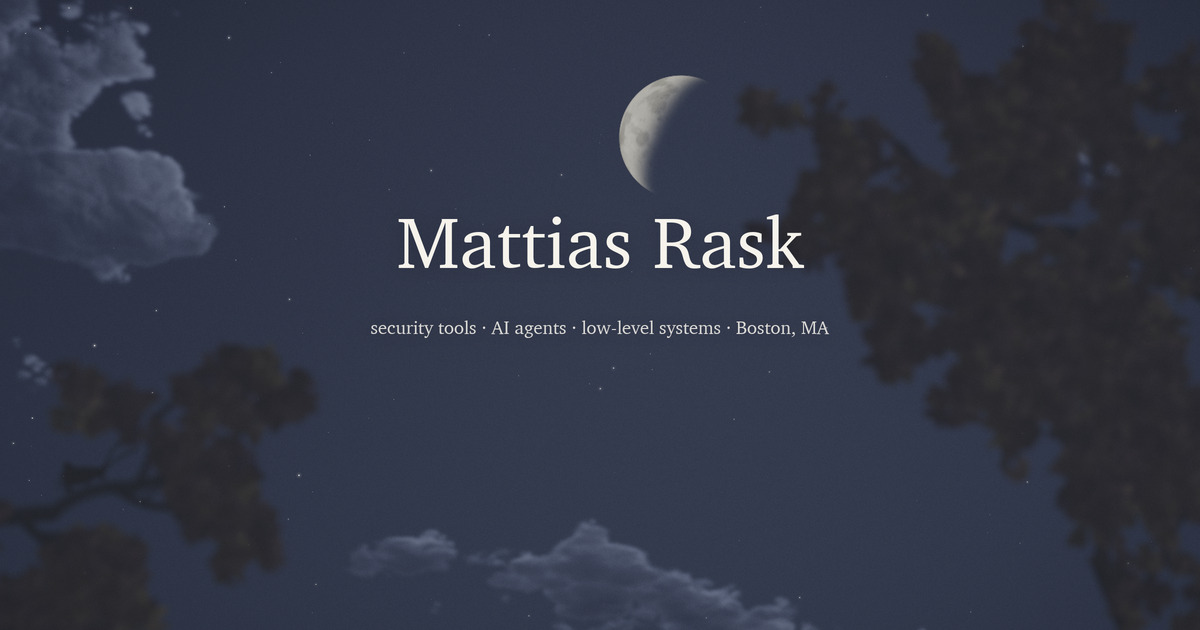
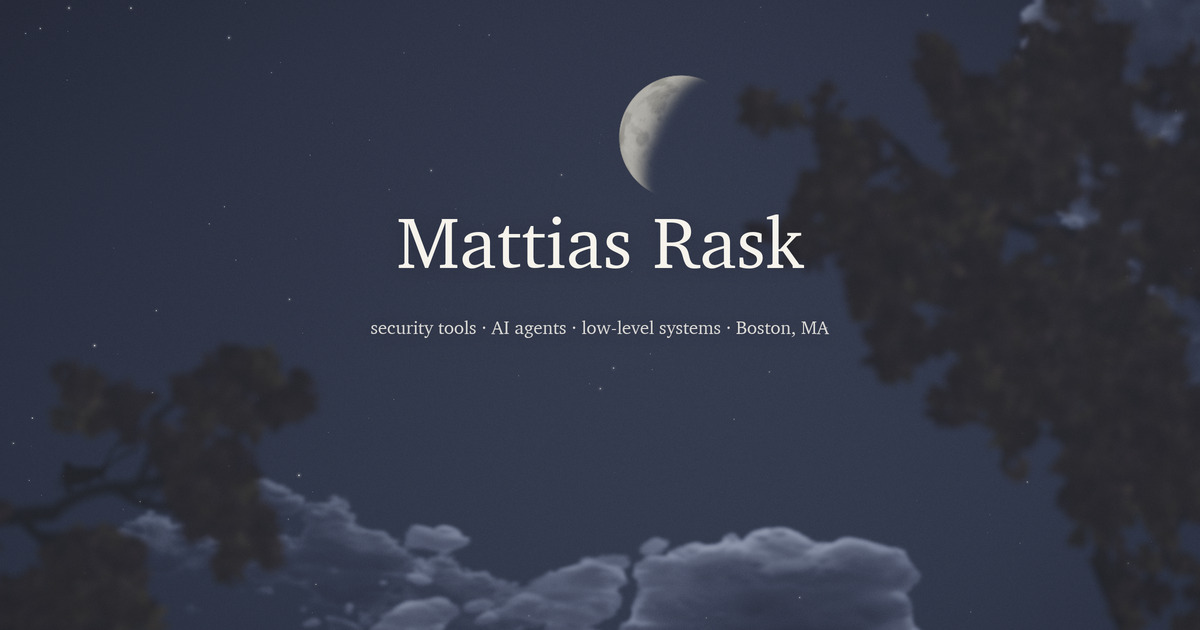
clouds drift whole, start in the open sky, night card

diff --git a/sky.js b/sky.js
@@ -16,7 +16,7 @@
    the tips, and the left limb keeps a bare stretch of wood for the
    cricket. The wind is a noise signal with
    real lulls and gusts: it runs through the crown, carries the clouds
-   slowly leftward, and when it rises leaves let go of the clusters and
+   slowly leftward in one piece, and when it rises leaves let go of the clusters and
    blow down through the picture, some flipping end over end the whole
    way; by day a jet crosses the high sky now and then and its contrail
    widens and dissolves behind it. At night the wind drops: the clouds
@@ -232,25 +232,40 @@ float turb3(vec2 p) {
   return v;
 }
 
+/* the field translates as one piece, so a cloud keeps its shape as it
+   crosses the frame; the lobes and the grain slip behind the body by a
+   few percent, so a cloud still turns over, slowly, the way they do */
+float bodyAt(vec2 q, vec2 drift, float seed) {
+  return fbm5((q + drift) * 1.35 + seed);
+}
+
+float bigAt(vec2 q, vec2 drift, float seed) {
+  return turb3((q + drift * 0.96) * 3.8 + 9.0 + seed);
+}
+
+float midAt(vec2 q, vec2 drift, float seed) {
+  return turb3((q + drift * 0.96) * 7.5 + 17.0 + seed);
+}
+
 float fineAt(vec2 q, vec2 drift, float seed) {
-  return turb3(q * 20.0 + drift * 0.5 + 27.0 + seed);
+  return turb3((q + drift * 0.92) * 20.0 + 27.0 + seed);
 }
 
 float puff(vec2 p, vec2 drift, float seed, out float body, out float lobes, out float fine) {
-  body = fbm5(p * 1.35 + drift + seed);
-  float big = turb3(p * 3.8 + drift * 0.8 + 9.0 + seed);
-  float mid = turb3(p * 7.5 + drift * 0.65 + 17.0 + seed);
+  body = bodyAt(p, drift, seed);
+  float big = bigAt(p, drift, seed);
+  float mid = midAt(p, drift, seed);
   fine = fineAt(p, drift, seed);
   lobes = 0.6 * big + 0.4 * mid;
   return body + 0.24 * (big - 0.42) + 0.11 * (mid - 0.42) + 0.09 * (fine - 0.42);
 }
 
 float lobeAt(vec2 q, vec2 drift, float seed) {
-  return 0.6 * turb3(q * 3.8 + drift * 0.8 + 9.0 + seed) + 0.4 * turb3(q * 7.5 + drift * 0.65 + 17.0 + seed);
+  return 0.6 * bigAt(q, drift, seed) + 0.4 * midAt(q, drift, seed);
 }
 
 float mass(vec2 q, vec2 drift, float seed) {
-  return fbm5(q * 1.35 + drift + seed) + 0.24 * (turb3(q * 3.8 + drift * 0.8 + 9.0 + seed) - 0.42) - 0.032;
+  return bodyAt(q, drift, seed) + 0.24 * (bigAt(q, drift, seed) - 0.42) - 0.032;
 }
 
 float boxDist(vec2 p, vec4 r, vec2 s) {
@@ -265,7 +280,7 @@ vec4 deck(vec2 p0, vec2 sunP, vec2 drift, float sc, float seed, float th0, float
   float k = sc * FINE;
   p0 *= k;
   sunP *= k;
-  vec2 warp = (vec2(fbm3(p0 * 1.2 + drift + 3.0 + seed), fbm3(p0 * 1.2 + drift + 17.0 + seed)) - 0.5) * 0.10;
+  vec2 warp = (vec2(fbm3((p0 + drift) * 1.2 + 3.0 + seed), fbm3((p0 + drift) * 1.2 + 17.0 + seed)) - 0.5) * 0.10;
   vec2 p = p0 + warp;
   float body, lobes, fine;
   float f = puff(p, drift, seed, body, lobes, fine);
@@ -284,8 +299,8 @@ vec4 deck(vec2 p0, vec2 sunP, vec2 drift, float sc, float seed, float th0, float
      turns toward the light; and the fine grain that roughens the lit
      lobes into cauliflower */
   float eb = 0.05, el = 0.012, ef = 0.005;
-  vec2 gB = vec2(fbm5((p + vec2(eb, 0.0)) * 1.35 + drift + seed) - body,
-                 fbm5((p + vec2(0.0, eb)) * 1.35 + drift + seed) - body) / eb;
+  vec2 gB = vec2(bodyAt(p + vec2(eb, 0.0), drift, seed) - body,
+                 bodyAt(p + vec2(0.0, eb), drift, seed) - body) / eb;
   vec2 gL = vec2(lobeAt(p + vec2(el, 0.0), drift, seed) - lobes,
                  lobeAt(p + vec2(0.0, el), drift, seed) - lobes) / el;
   vec2 gF = vec2(fineAt(p + vec2(ef, 0.0), drift, seed) - fine,
@@ -316,7 +331,7 @@ vec4 deck(vec2 p0, vec2 sunP, vec2 drift, float sc, float seed, float th0, float
      there scatters its light forward; the shadow side keeps a bare edge */
   float facing = smoothstep(-0.3, 0.7, 0.4 * sideB + 0.35 * sideL + 0.25 * sideF);
   float lining = (1.0 - smoothstep(0.0, 0.045, e)) * (0.2 + 0.8 * facing);
-  float hue = smoothstep(0.36, 0.64, fbm3(p0 * 0.55 + drift * 0.3 + 57.0 + seed));
+  float hue = smoothstep(0.36, 0.64, fbm3((p0 + drift) * 0.55 + 57.0 + seed));
   vec3 lit = CLIT * mix(vec3(1.03, 0.99, 0.93), vec3(0.98, 1.0, 1.03), hue);
   lit *= mix(vec3(1.0), vec3(1.0, 0.84, 0.66), DUSK);
   vec3 col = lk < 0.5 ? mix(CSHD, CMID, lk * 2.0) : mix(CMID, lit, lk * 2.0 - 1.0);
@@ -332,7 +347,7 @@ void main() {
   float dy = max(dir.y, 0.0);
   vec2 p0 = dir.xz / (dy + 0.5) * 0.85;
   vec2 sunP = SUN.xz / (max(SUN.y, 0.0) + 0.5) * 0.85;
-  vec2 drift = CLT * vec2(0.014, 0.002);
+  vec2 drift = CLT * vec2(0.008, 0.0012);
   float nearMoon = pow(max(dot(dir, MOON), 0.0), 80.0);
   float glow = pow(max(dot(dir, SUN), 0.0), mix(24.0, 48.0, NIGHT));
   float th0 = mix(0.74, 0.38, COVER) + FOOT * (1.0 - smoothstep(0.0, 0.5, uv.y)) - HEAD * smoothstep(0.5, 1.0, uv.y);
@@ -1340,7 +1355,9 @@ var mx = 0, my = 0, tx = 0, ty = 0;
 var running = false, raf = 0, last = 0, frameNo = 0;
 var visible = !document.hidden, inView = true;
 var box = [0, 0, 0, 0];
-var cloudT = 0, fine = 1, coverBoost = 0;
+/* the drift starts 90 s in, where the clouds stand in the open sky on
+   both the desktop and the phone frame instead of in one corner */
+var cloudT = 90, fine = 1, coverBoost = 0;
 var themeMeta = document.querySelector('meta[name="theme-color"]');
 
 function themeColor(w) {
